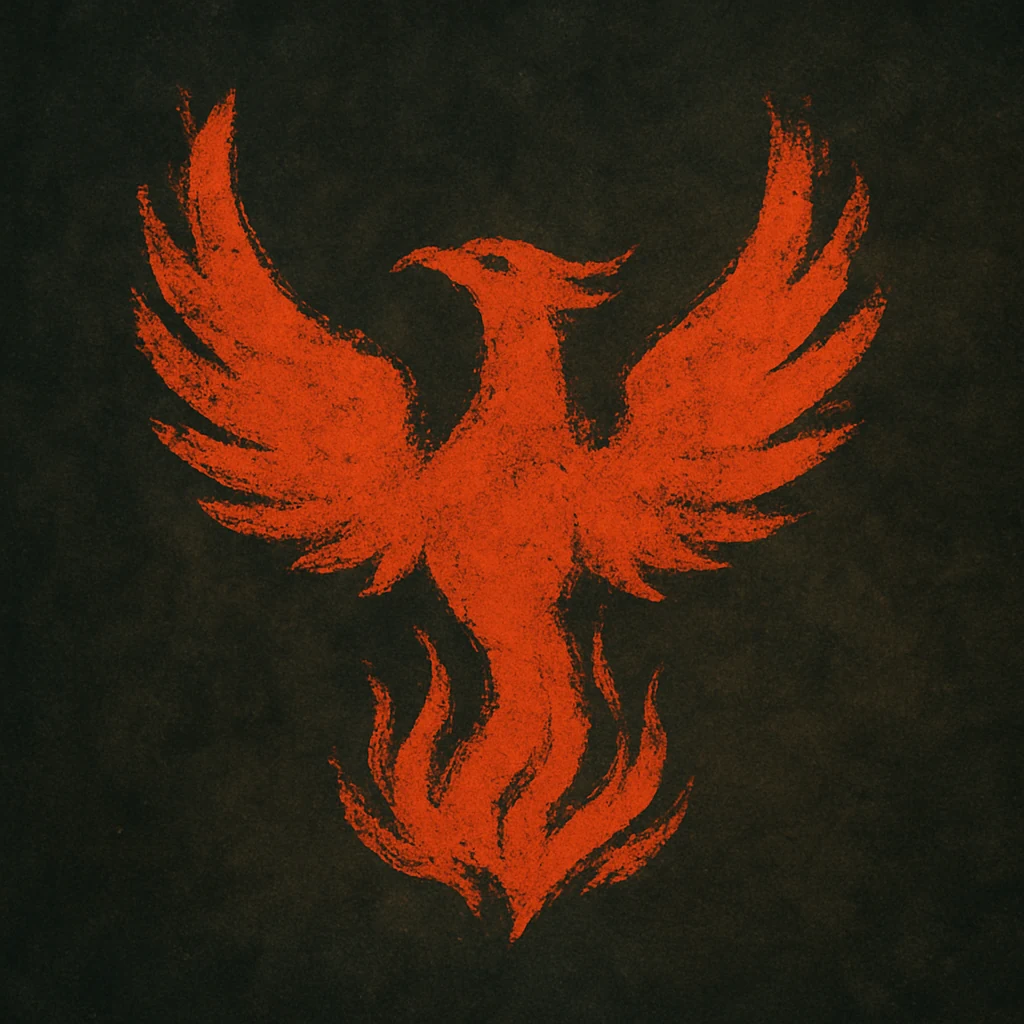
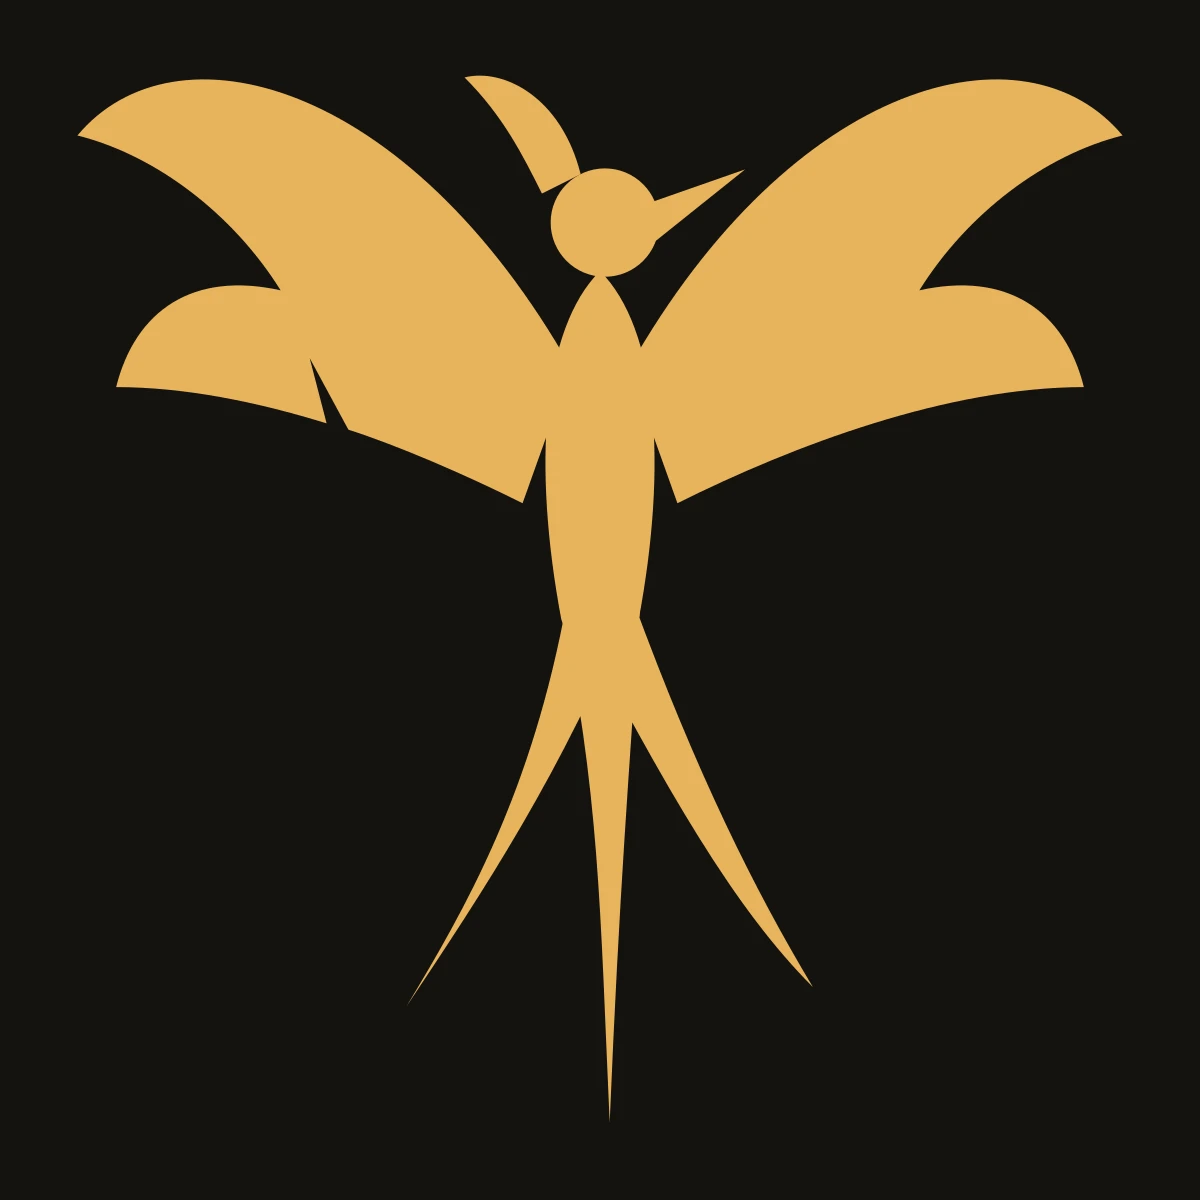
Give the Firebird emblem its missing feather
The emblem showed a whole bird. One feather missing is the detail the book says
every bad copy leaves out, so the emblem was itself a bad copy — and it sat on
both the lore entry and the archive object while the generated sigil next door
had the notch.

Redrawn from the sigil generator's own geometry so the two agree, kept as an SVG
alongside the raster so it stays sharp at any size.

Claude-Session: https://claude.ai/code/session_016Tq5mMVbgadVZHFMj4QrQ1

diff --git a/src/content/lore/the-firebird.md b/src/content/lore/the-firebird.md
@@ -5,7 +5,7 @@ designation: Resistance Iconography | One Feather Missing
 summary: A firebird with wings mid-rise and one feather always missing. Not on uniforms — there were none. Not on records — they were erased. Everywhere else.
 order: 2
 image: ../../assets/lore/firebird-emblem.webp
-imageAlt: The Firebird emblem — a stylised bird rendered in ash and ochre, wings rising
+imageAlt: The Firebird emblem — wings mid-rise, and one feather missing from the left wing
 related: [the-resistance, sumati, kishanganj]
 ---
 

diff --git a/src/content/archive/firebird-emblem.md b/src/content/archive/firebird-emblem.md
@@ -4,6 +4,6 @@ summary: Symbol of the Resistance. Hand-sketched, stitched, sprayed, remembered.
 status: recovered
 order: 3
 image: ../../assets/lore/firebird-emblem.webp
-imageAlt: The Firebird emblem rendered in ash and ochre on a broken wall
+imageAlt: The Firebird emblem — wings mid-rise, and one feather missing from the left wing
 related: [the-firebird, the-resistance]
 ---
